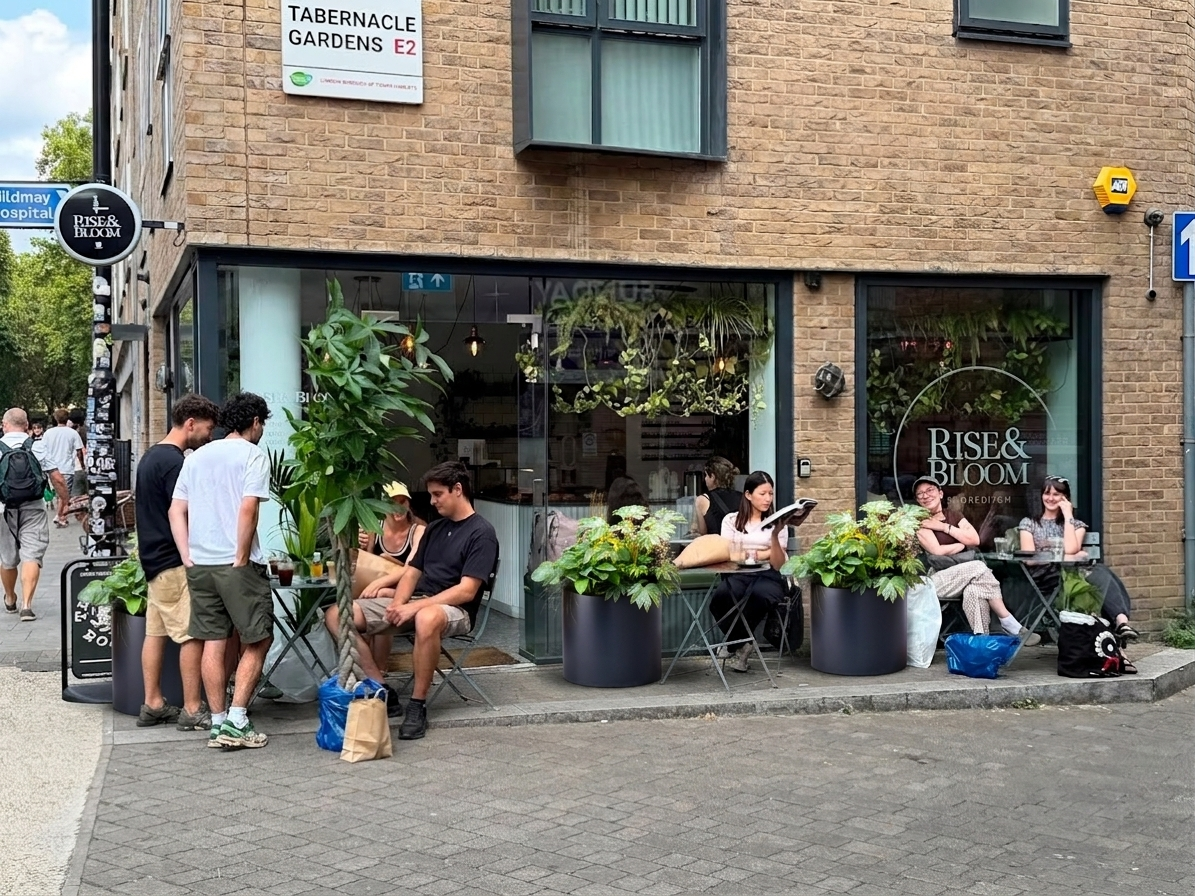
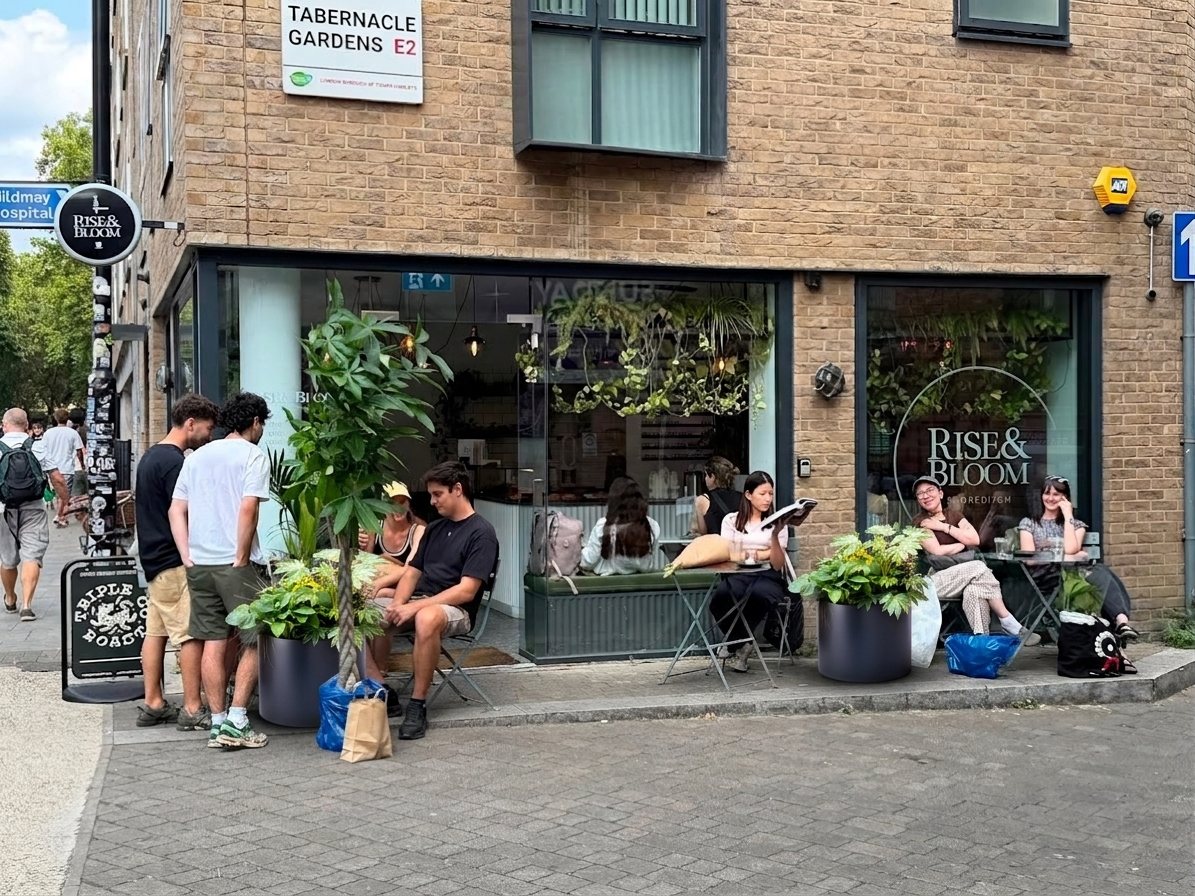
Composite: guide planter quantity so single-unit products place as a pair/row
A lone cylinder on a wide frontage looked sparse (e.g. BOBO & WILD). The prompt
now styles single-unit planters as a matched pair flanking the entrance (or a
short row), uses sets/pairs as shown, and keeps one unit only on narrow pavements.
Re-composited the committed three in place (same venues/products/frontages).

Changed region(s): [[0.0619, 0.5938, 0.3406, 0.8438], [0.4335, 0.5312, 0.6192, 0.7812], [0.6502, 0.5312, 0.805, 0.7812]]

diff --git a/pipeline/src/composite.ts b/pipeline/src/composite.ts
@@ -25,6 +25,9 @@ IMAGE 1 = the real venue frontage. Treat the building, windows, door, signage, p
 
 IMAGE 2 = the client's ACTUAL product that must appear: "${p.name}" – ${p.form}, ${p.material}. Planting: ${p.planting}. Reproduce THIS exact planter and planting faithfully (same shape, material, colour, proportions and plants). Do NOT substitute a generic planter.
 
+QUANTITY & ARRANGEMENT:
+- Style it like a real venue would – not a single lonely planter on a wide frontage. If IMAGE 2 shows a SET or a PAIR of planters, place the whole set/pair as shown. If it shows a SINGLE planter, place a MATCHED PAIR flanking the entrance (one on each side) or an even short row lining the frontage, as the pavement width allows. Every unit must be IDENTICAL to IMAGE 2 and at matching scale. Only on a genuinely narrow pavement is a single unit acceptable.
+
 PLACEMENT (critical – this is how a real venue would style it):
 - Suggested spot: ${placement}.
 - Place the planter(s) to the SIDE(S) of the entrance, flanking the door or lining the frontage against the building wall / beneath the windows.
